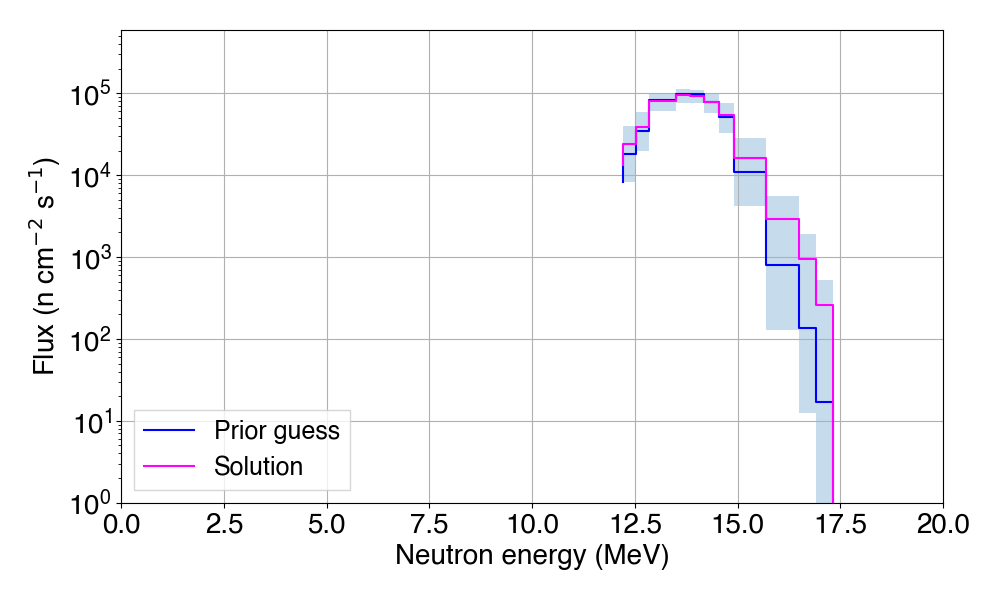
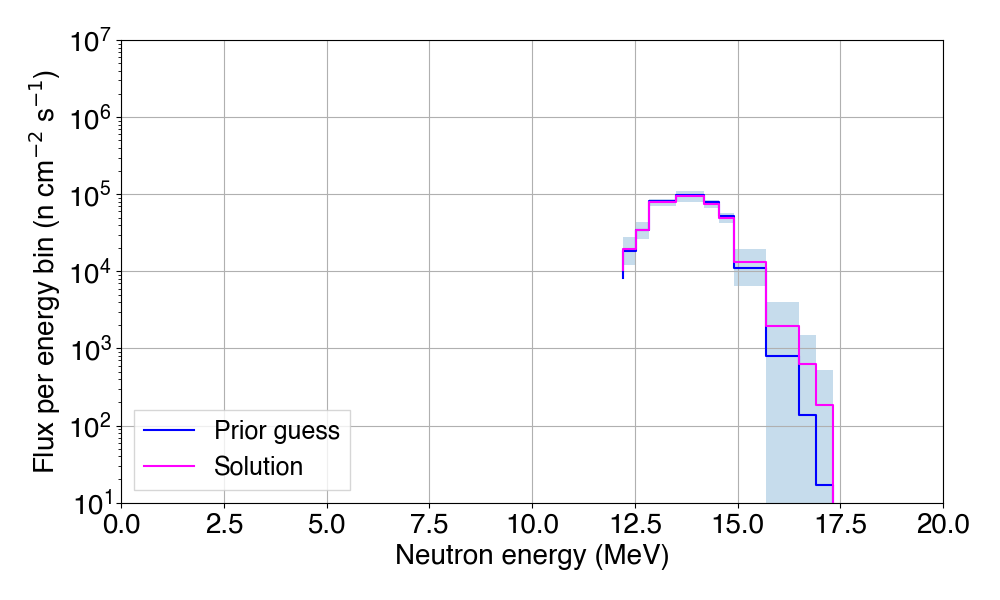
correct uncertainty postprocessing in the unfolded spectrum (unfold.py) (1) now calculates a spectrum distribution by sampling from solution parameter distribution. plots/dumps/etc this instead (2) call param cov matrix from get_spectra instead of param stds (3) call the solution spectra in the spec

diff --git a/nfoils/unfold.py b/nfoils/unfold.py
@@ -743,8 +743,8 @@ class BayesianUnfolding:
             spectrum_leth.append(j/leth)
         return spectrum_leth
     
-    def get_spectra(self,model,param_aves,param_stds,cutoff=None):
-        """ get spectra from the model params
+    def get_spectra(self,model,param_aves,param_cov,cutoff=None):
+        """ get spectra from the model params and cov matrix
 
         Parameters
         ----------
@@ -752,8 +752,8 @@ class BayesianUnfolding:
             set to the model function
         param_aves : list[float]
             mean values for the parameters
-        param_stds : list[float]
-            standard deviation values for the parameters
+        param_cov : list[float]
+            covariance matrix for the parameters
         cutoff : int
             number of unphysical values 
             to cut off from the end of the spectrum
@@ -772,19 +772,28 @@ class BayesianUnfolding:
         # shorthand for the unfolding group structure
         gs = self.group_structure
 
-        # calculate max/min parameters and convert all to tuples
-        param_ave_array = np.array(param_aves)
-        param_std_array = np.array(param_stds)
-        theta_max = tuple(param_ave_array + param_std_array)
-        theta_min = tuple(param_ave_array - param_std_array)
+        # calculate the initial guess spectrum w the model 
         theta_guesses = tuple(self.guesses)
-
-        # calculate mean, max, min, initial guess spectra
-        max_spectrum = [model(theta_max,i) for i in gs]
-        min_spectrum = [model(theta_min,i) for i in gs]
         guess_spectrum = [model(theta_guesses,i) for i in gs]
-        mean_spectrum = [np.mean([i,j]) for i,j 
-                         in zip(min_spectrum,max_spectrum)]
+        
+        # need to sample from parameter distributions to produce
+        # a distribution of spectra, then find the mean and std 
+        # spectra from the distribution
+
+        # generate random samples from the parameter distribution
+        param_ave_array = np.array(param_aves)
+        param_cov_array = np.array(param_cov)
+        param_samples = np.random.multivariate_normal(mean=param_ave_array,
+                                                      cov=param_cov_array,
+                                                      size=1000)
+        # calculate mean, max, min spectra
+        spectrum_samples = np.array([[model(i,j) for j in gs]
+                            for i in param_samples])
+        spectrum_samples[np.isnan(spectrum_samples)]=0
+        mean_spectrum = np.mean(spectrum_samples[:,0:len(gs)],axis=0)
+        std_spectrum = np.std(spectrum_samples[:,0:len(gs)],axis=0)
+        max_spectrum = mean_spectrum + std_spectrum
+        min_spectrum = mean_spectrum - std_spectrum
 
         # remove preset unphysical values from spectra
         if cutoff != None:
@@ -797,32 +806,27 @@ class BayesianUnfolding:
         return (mean_spectrum,max_spectrum,
                 min_spectrum,guess_spectrum)
     
-    def plot_simple_spectrum(self,model,param_aves,param_stds,
-                             cutoff=None,plotname='spectrum'):
+    def plot_simple_spectrum(self,mean_spectrum,max_spectrum,
+                             min_spectrum,guess_spectrum,
+                             plotname='spectrum'):
         """ plot solution spectrum+uncertainty and initial
         parameter guess spectrum. simple linear plot
 
         Parameters
         ----------
-        model : callable 
-            set to the model function
-        param_aves : list[float]
-            mean values for the parameters
-        param_stds : list[float]
-            standard deviation values for the parameters
-        cutoff : int
-            number of unphysical values 
-            to cut off from the end of the spectrum
+        mean_spectrum : list[float]
+            the solution spectrum
+        max_spectrum : list[float]
+            the upper bound spectrum
+        min_spectrum : list[float]
+            the lower bound spectrum
+        guess_spectrum : list[float]
+            the prior guess spectrum
         plotname : str
             name of the spectrum plot
         """
         # get all the spectra and the group structure
         gs = self.group_structure
-        (mean_spectrum,max_spectrum,
-        min_spectrum,guess_spectrum) = self.get_spectra(model,
-                                                        param_aves,
-                                                        param_stds,
-                                                        cutoff)
 
         # plot solution and prior spectrum guess
         fig, ax = plt.subplots(1,figsize=(10,6))
@@ -845,35 +849,33 @@ class BayesianUnfolding:
         plt.savefig(f'{plotname}.png')
 
 
-    def plot_split_spectrum(self,model,param_aves,param_stds,
-                            cutoff=None,plotname='spectrum'):
+    def plot_split_spectrum(self,mean_spectrum,max_spectrum,
+                            min_spectrum,guess_spectrum,
+                            plotname='spectrum',cutoff=None):
         """ plot solution spectrum+uncertainty and initial
         parameter guess spectrum. split log-linear plot
 
         Parameters
         ----------
-        model : callable 
-            set to the model function
-        param_aves : list[float]
-            mean values for the parameters
-        param_stds : list[float]
-            standard deviation values for the parameters
+        mean_spectrum : list[float]
+            the solution spectrum
+        max_spectrum : list[float]
+            the upper bound spectrum
+        min_spectrum : list[float]
+            the lower bound spectrum
+        guess_spectrum : list[float]
+            the prior guess spectrum
+        plotname : str
+            name of the spectrum plot
         cutoff : int
             number of unphysical values 
             to cut off from the end of the spectrum
-        plotname : str
-            name of the spectrum plot
         """
 
         # get all the spectra and the group structure
         gs = self.group_structure
-        (mean_spectrum,max_spectrum,
-        min_spectrum,guess_spectrum) = self.get_spectra(model,
-                                                        param_aves,
-                                                        param_stds,
-                                                        cutoff)
         
-        # cutoff swithces for the C/T graph
+        # cutoff switches for the C/T graph
         if cutoff!= None:
             gs_cutoff = gs[:-cutoff]
             ones_cutoff = np.ones(len(gs[:-cutoff]))
@@ -936,31 +938,19 @@ class BayesianUnfolding:
         plt.subplots_adjust(wspace=0.04, hspace=0.1)
         plt.savefig(f'{plotname}.png')
 
-    def dump_spectrum(self,model,param_aves,param_stds,
-                      cutoff=None,txtname='spectrum'):
+    def dump_spectrum(self,mean_spectrum,max_spectrum,
+                      txtname='spectrum'):
         """ dump spectrum for further analysis
 
         Parameters
         ----------
-        model : callable 
-            set to the model function
-        param_aves : list[float]
-            mean values for the parameters
-        param_stds : list[float]
-            standard deviation values for the parameters
-        cutoff : int
-            number of unphysical values 
-            to cut off from the end of the spectrum
+        mean_spectrum : list[float]
+            the solution spectrum
+        max_spectrum : list[float]
+            the upper bound spectrum
         txtname : str
             name of the dumped spectrum txt file
         """
-        # get all the spectra and the group structure
-        (mean_spectrum,max_spectrum,
-        min_spectrum,guess_spectrum) = self.get_spectra(model,
-                                                        param_aves,
-                                                        param_stds,
-                                                        cutoff)
-        
         # get raw uncertainty and dump spectrum+uncert
         print(f'total spectrum flux = {np.sum(mean_spectrum)} n/cm2/s')
         uncert_spectrum=[(i-j) for i,j in zip(max_spectrum,mean_spectrum)]
@@ -969,13 +959,12 @@ class BayesianUnfolding:
 
     def residual_sum_squares(self,spectrum):
         """ find residual sum of sqaures for reaction rates, for 
-        a given converged unfolding model
+        a given spectrum in the problem group structure
 
-        
         Parameters
         ----------
         spectrum : list[float]
-            final unfolded spectrum
+            spectrum in the problem structure
 
         Returns
         -------
@@ -988,57 +977,39 @@ class BayesianUnfolding:
         rss = np.sum(squares_list)
         return rss
 
-    def get_bic(self,model,param_aves,param_stds,cutoff=None):
+    def get_bic(self,mean_spectrum):
         """ calculate bayesian information criterion, 
-        for a given converged unfolding model
+        for a given solution spectrum
 
         Parameters
         ----------
-        model : callable 
-            set to the model function
-        param_aves : list[float]
-            mean values for the parameters
-        param_stds : list[float]
-            standard deviation values for the parameters
-        cutoff : int
-            number of unphysical values 
-            to cut off from the end of the spectrum
+        mean_spectrum : list[float]
+            the solution spectrum in the group structure
 
         Returns
         -------
         bic : float
             Bayesian information criterion for model
         """
-        mean_spectrum= self.get_spectra(model,param_aves,
-                                        param_stds,cutoff)[0]
         rss = self.residual_sum_squares(mean_spectrum)
         num_rrs = len(self.reaction_rates)
         bic = (num_rrs*np.log(rss/num_rrs) + self.nparam*np.log(num_rrs))
         return bic
     
-    def get_chi_squared(self,model,param_aves,param_stds,cutoff=None):
+    def get_chi_squared(self,mean_spectrum):
         """ calculate reduced chi squared between a set of measurements, 
-        and a set of model predictions
+        and a set of solution spectrum predictions
 
         Parameters
         ----------
-        model : callable 
-            set to the model function
-        param_aves : list[float]
-            mean values for the parameters
-        param_stds : list[float]
-            standard deviation values for the parameters
-        cutoff : int
-            number of unphysical values 
-            to cut off from the end of the spectrum
+        mean_spectrum : list[float]
+            the solution spectrum in the group structure
 
         Returns
         -------
         reduced_chi_squared : float
             reduced chi square between measurements and predictions
         """
-        mean_spectrum= self.get_spectra(model,param_aves,
-                                        param_stds,cutoff)[0]
         predicted = [np.dot(i,mean_spectrum) for i in self.response_matrix]
         observed = np.concatenate(self.reaction_rates)
         uncerts = np.concatenate(self.reaction_rate_uncerts)

diff --git a/examples/unfold_neutron_spectrum/do_unfolding.py b/examples/unfold_neutron_spectrum/do_unfolding.py
@@ -104,6 +104,6 @@ if __name__ == '__main__':
         np.savetxt('params.txt', np.transpose(params))
         np.savetxt('cov_matrix.txt', np.transpose(cov_matrix))
 
-        # lazy stdev calculation and plot spectrum
-        stds = np.diag(np.sqrt(cov_matrix))
-        unfold.plot_simple_spectrum(model,params,stds)
+        # calculate the distribution of spectra and plot them
+        all_spectra = unfold.get_spectra(model,params,cov_matrix)
+        unfold.plot_simple_spectrum(*all_spectra)
